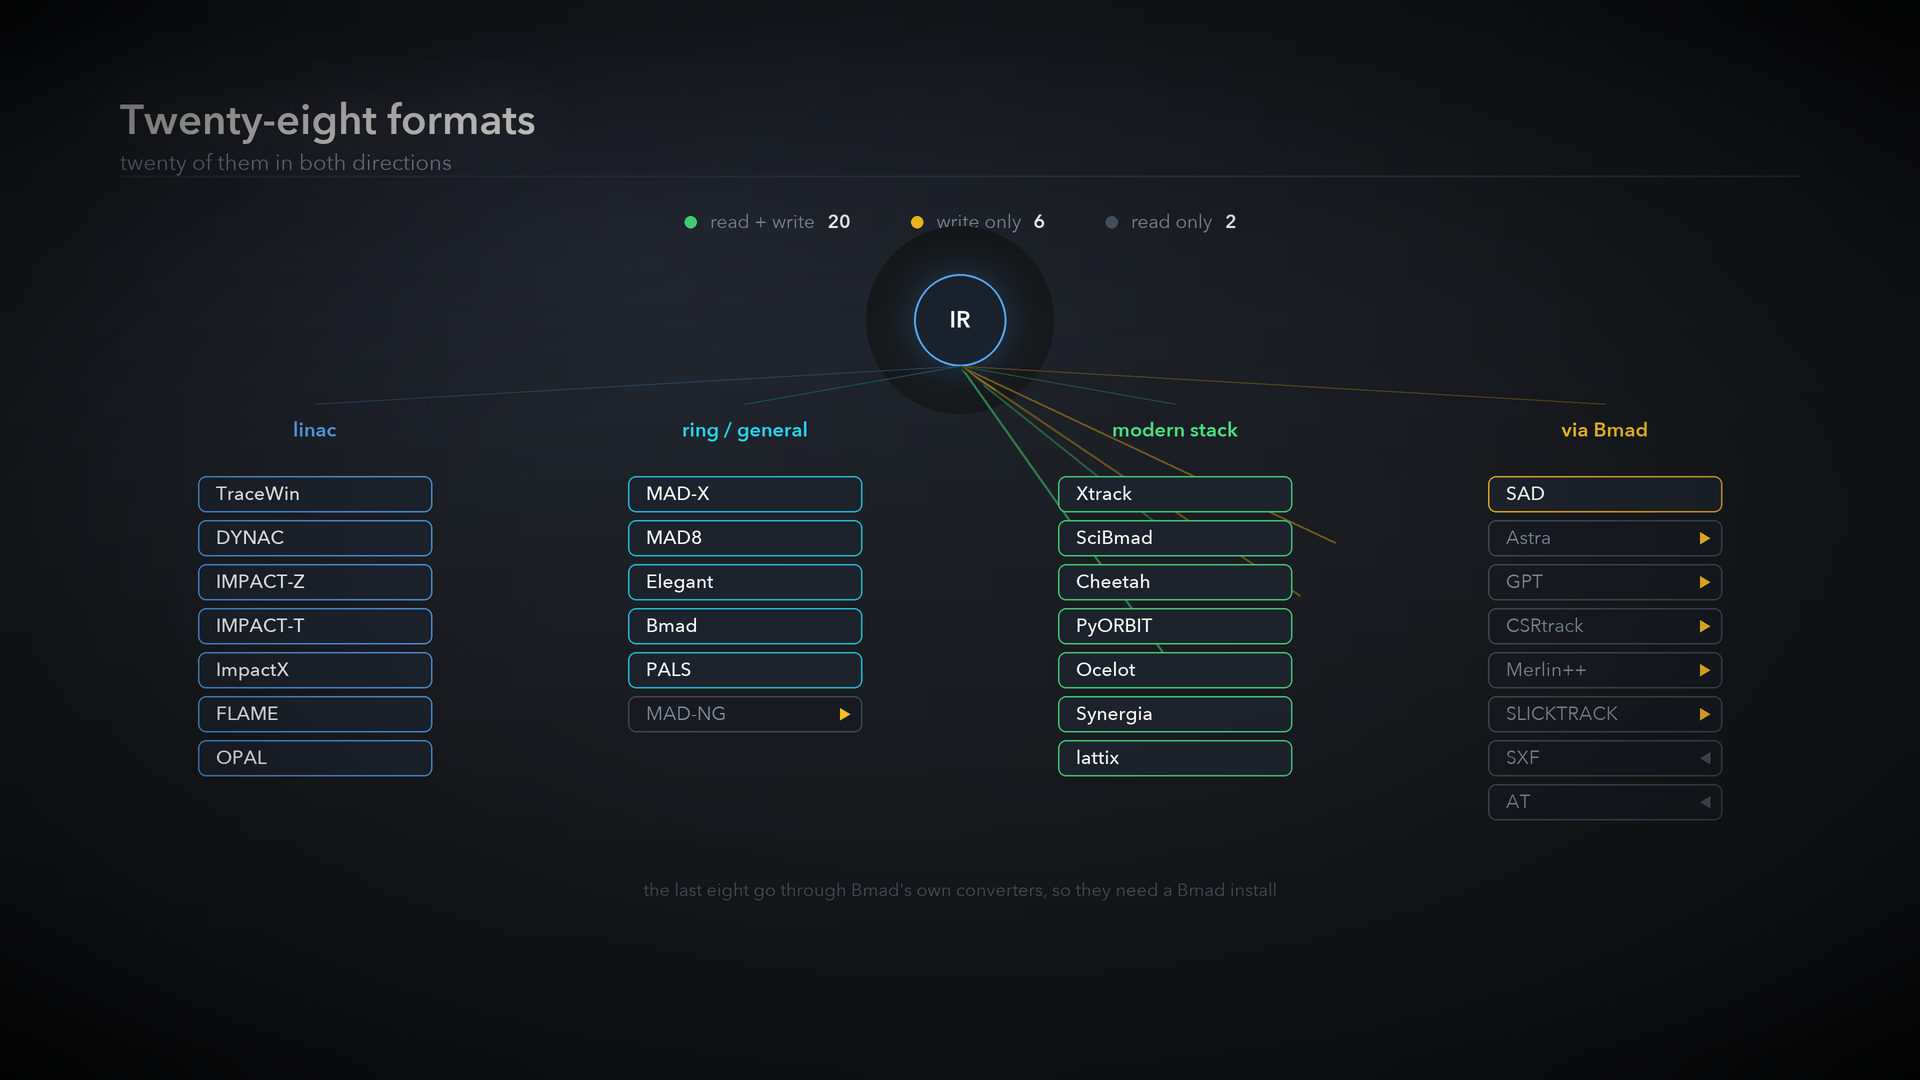
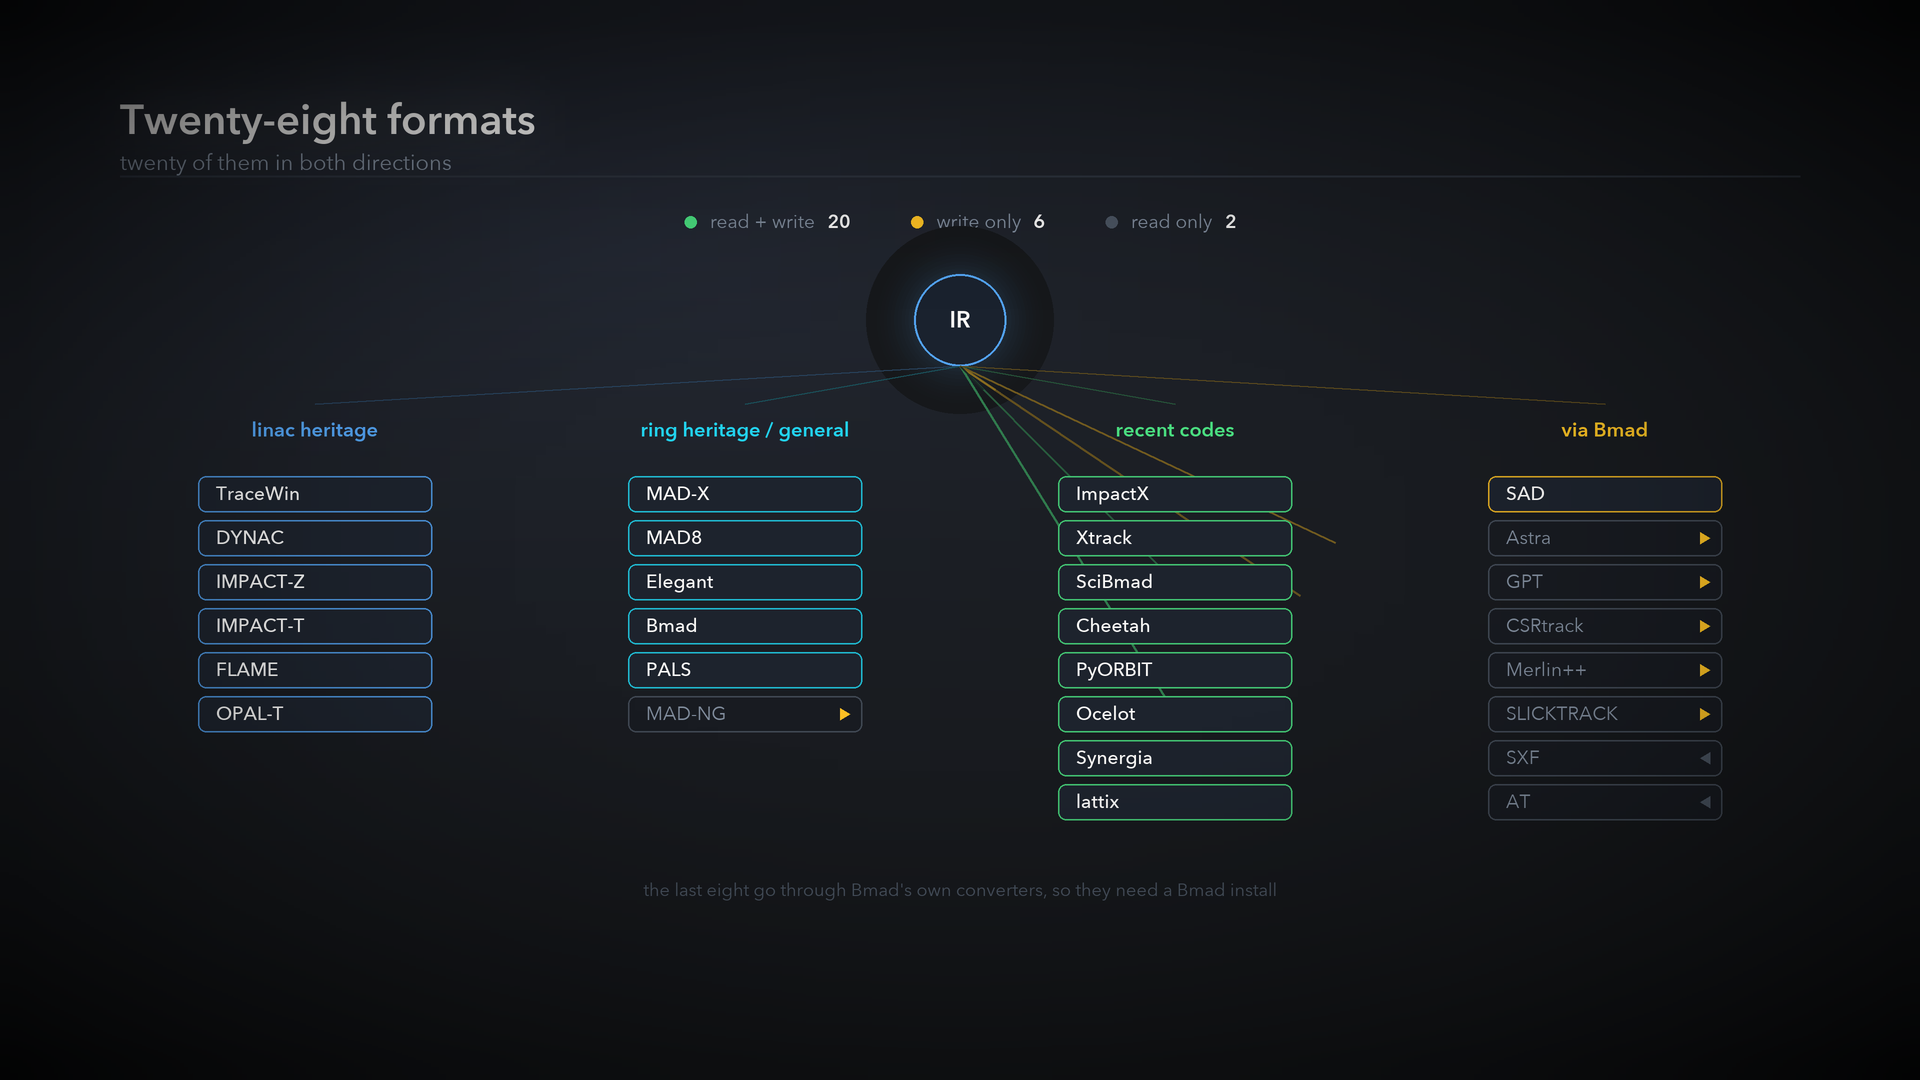
README: ImpactX is not a linac-only code; groups are heritage, not capability
Closes #1, raised by ImpactX's lead developer: the README filed ImpactX
under "linac" because of its name, next to IMPACT-Z and IMPACT-T. ImpactX
runs rings as well, the Fermilab Booster and IOTA among its published
examples, and it is a 2022 GPU code rather than a legacy one.

The grouping now says what it actually is. "linac heritage" and "ring
heritage and general" describe where a code comes from, "recent codes" is
about when it arrived, and a sentence under the table says plainly that the
groups are a reading aid and not a statement of what each code can simulate.
ImpactX moves to the recent group, where it also happens to be the engine
that agrees most closely with MAD-X in the validation plot.

The artwork is regenerated from the same grouping so the picture and the
table cannot drift apart again.

diff --git a/README.md b/README.md
@@ -56,10 +56,14 @@ limit of the formats themselves rather than of the translator.
 
 | group | formats |
 |---|---|
-| linac | TraceWin, DYNAC, IMPACT-Z, IMPACT-T, ImpactX, FLAME, OPAL-T |
-| ring and general | MAD-X, MAD8, Elegant, Bmad, PALS, MAD-NG |
-| modern stack | Xtrack, SciBmad, Cheetah, PyORBIT3, Ocelot, Synergia, lattix JSON |
+| linac heritage | TraceWin, DYNAC, IMPACT-Z, IMPACT-T, FLAME, OPAL-T |
+| ring heritage and general | MAD-X, MAD8, Elegant, Bmad, PALS, MAD-NG |
+| recent codes | ImpactX, Xtrack, SciBmad, Cheetah, PyORBIT3, Ocelot, Synergia, lattix JSON |
 | through Bmad's converters | SAD, Astra, GPT, CSRtrack, Merlin++, SLICKTRACK, SXF, Accelerator Toolkit |
+
+The groups are a reading aid, not a statement of what each code can simulate. Several of these codes
+serve linacs and rings alike. ImpactX, for one, is used for the Fermilab Booster and for IOTA as well as
+for linacs, and it is also the engine that agrees most closely with MAD-X in the plot further down.
 
 The last group is worth understanding before you rely on it. lattix does not write those formats
 itself. It writes a Bmad deck and then calls the converters that ship with Bmad, so those eight need
